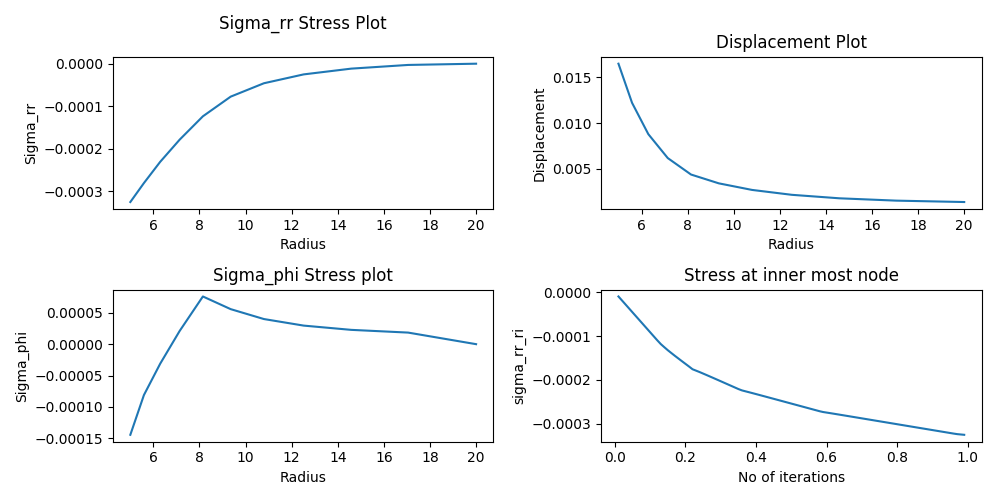
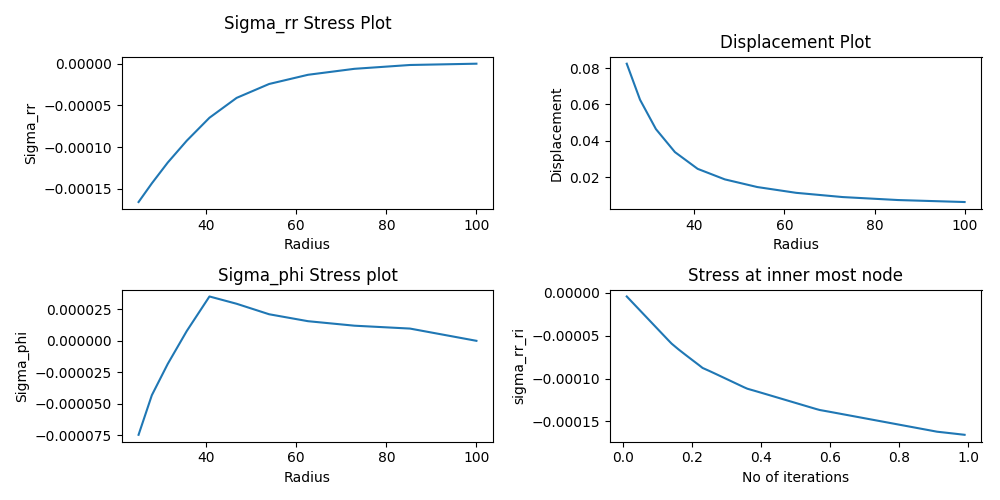
parameters added

diff --git a/pyfiles/Plasticity_plots.py b/pyfiles/Plasticity_plots.py
@@ -1,44 +1,6 @@
 import numpy as np
 import matplotlib.pyplot as plt
-
-step = 0.01
-t=np.arange(step,1,step)
-
-poissons_ratio = 0.2
-E = 0.2 
-mu = E/(2*(1+poissons_ratio))
-Lambda=poissons_ratio*E/((1-2*poissons_ratio)*(1+poissons_ratio))
-volumetric_strain = -0.01
-yield_stress = 200e-6 #N/micromm^2
-
-# Mesh generation
-Inner_radius = 5
-Outer_radius = 20
-n=10
-meshrefinementfactor = 5
-q=meshrefinementfactor**(1/(n-1))
-
-l=(Outer_radius-Inner_radius)*(1-q)/(1-meshrefinementfactor*q)
-rnode=Inner_radius
-coordinate=np.array([Inner_radius])
-
-for i in range(n):
-        rnode=rnode+l
-        coordinate=np.append(coordinate,rnode)
-        l=l*q
-
-C = np.array([[Lambda+2*mu,Lambda,Lambda],
-              [Lambda,Lambda+2*mu,Lambda],
-              [Lambda,Lambda,Lambda+2*mu]])
-
-#Tangent stiffness parameters
-a=np.eye(3)
-c=np.outer(a,a)
-Kay = 3*Lambda+2*mu
-b=np.eye(9)
-d=np.zeros((9,9))
-d[0,0]=1; d[1,3]=1;d[2,6]=1;d[3,1]=1;d[4,4]=1;d[5,7]=1;d[6,2]=1;d[7,5]=1;d[8,8]=1
-I = (1/2*(b+d))-(1/3*c)
+from Parameters import *
 
 
 Global_F_ext = np.zeros((n+1,1))

diff --git a/pyfiles/Parameters.py b/pyfiles/Parameters.py
@@ -1,0 +1,40 @@
+import numpy as np
+import matplotlib.pyplot as plt
+step = 0.01
+t=np.arange(step,1,step)
+
+poissons_ratio = 0.3
+E = 0.1
+mu = E/(2*(1+poissons_ratio))
+Lambda=poissons_ratio*E/((1-2*poissons_ratio)*(1+poissons_ratio))
+volumetric_strain = -0.01
+yield_stress = 100e-6 #N/micromm^2
+
+# Mesh generation
+Inner_radius = 25
+Outer_radius = 100
+n=10
+meshrefinementfactor = 5
+q=meshrefinementfactor**(1/(n-1))
+
+l=(Outer_radius-Inner_radius)*(1-q)/(1-meshrefinementfactor*q)
+rnode=Inner_radius
+coordinate=np.array([Inner_radius])
+
+for i in range(n):
+        rnode=rnode+l
+        coordinate=np.append(coordinate,rnode)
+        l=l*q
+
+C = np.array([[Lambda+2*mu,Lambda,Lambda],
+              [Lambda,Lambda+2*mu,Lambda],
+              [Lambda,Lambda,Lambda+2*mu]])
+
+#Tangent stiffness parameters
+a=np.eye(3)
+c=np.outer(a,a)
+Kay = 3*Lambda+2*mu
+b=np.eye(9)
+d=np.zeros((9,9))
+d[0,0]=1; d[1,3]=1;d[2,6]=1;d[3,1]=1;d[4,4]=1;d[5,7]=1;d[6,2]=1;d[7,5]=1;d[8,8]=1
+I = (1/2*(b+d))-(1/3*c)
